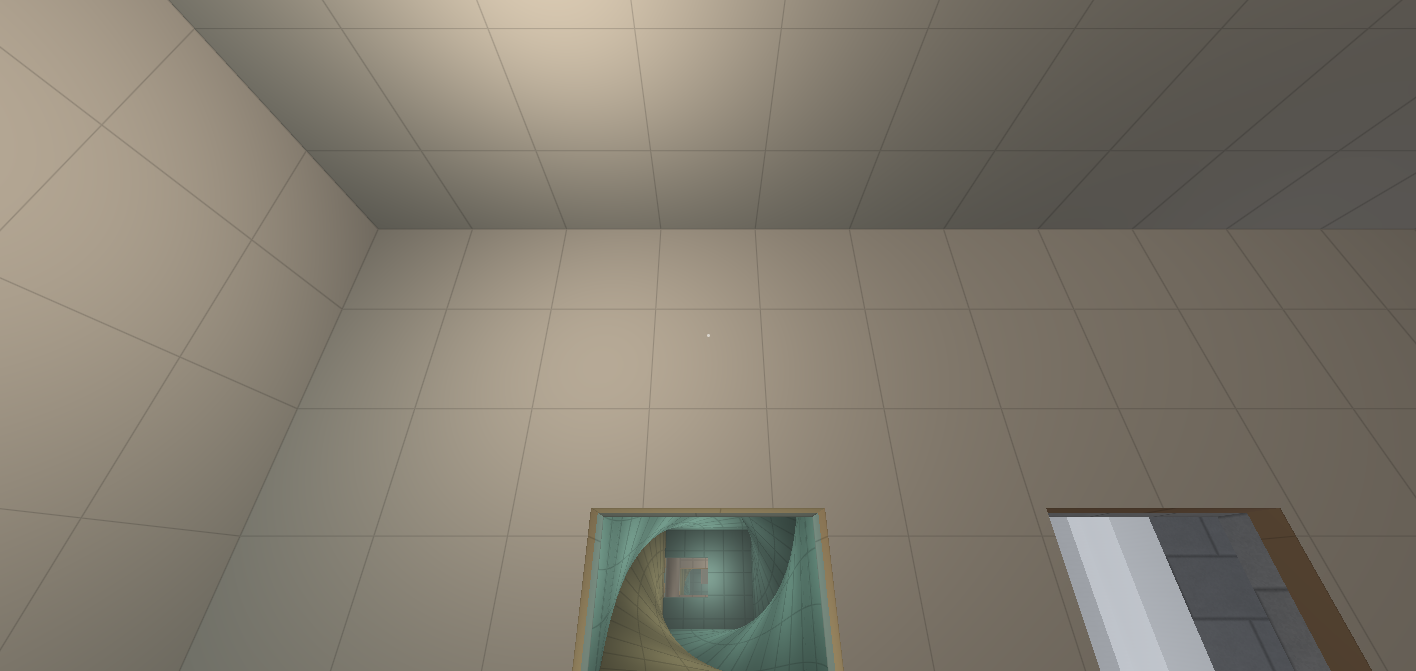
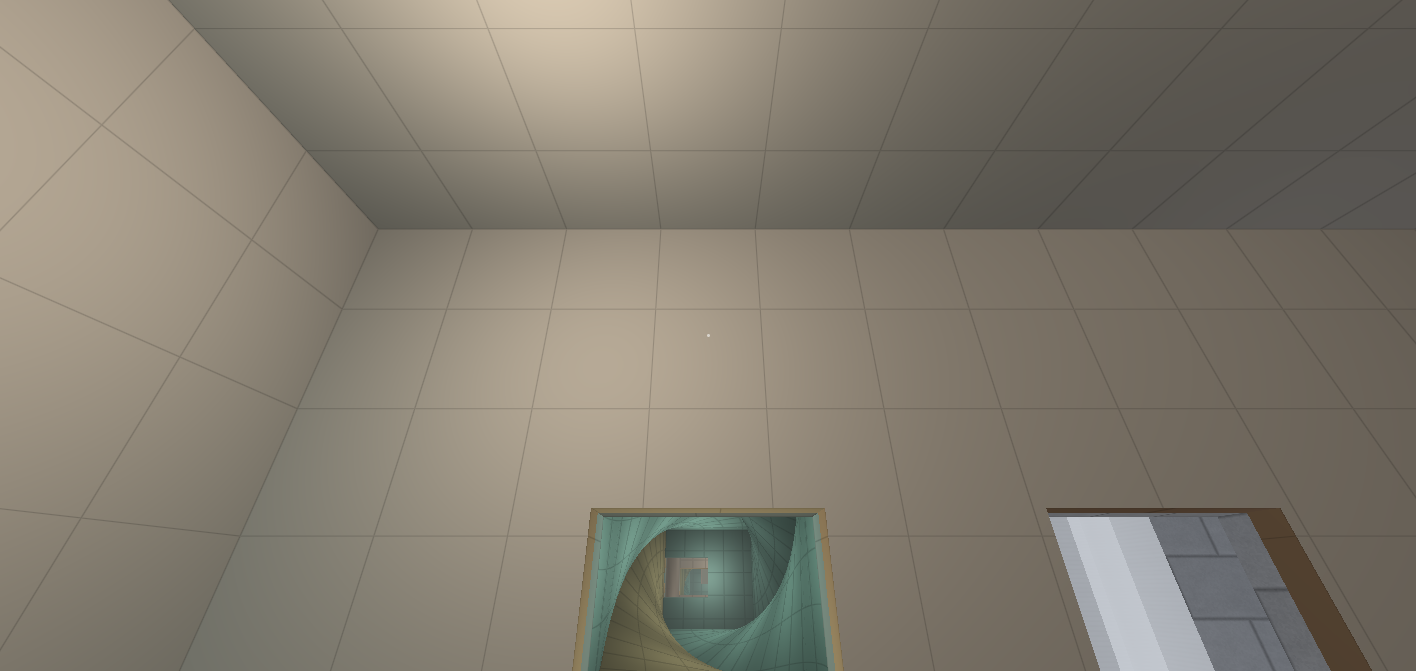
le dehors n'a plus de lampes, rien qu'un ciel
Elles étaient quatre, puissantes, vingt-six mètres au-dessus du pont,
pour détacher le proche du lointain. Deux torts, dont le second est
rédhibitoire.

L'une éclairait une masse de trop près : on voyait la tache, et une tache
de lumière sans luminaire est ce qui trahit le plus sûrement un décor.

Surtout, une lampe ne se répète pas avec la boucle. Le plancher de la
cellule est recollé à son plafond ; tout ce qui n'est pas invariant par
cette translation se signale au passage. En tombant, on sortait de leur
portée d'un coup et l'ombre gagnait tous les bâtiments à la fois, puis
le raccord nous ramenait dans la zone éclairée. Une lumière qui suit le
visiteur dans un vide immobile dit exactement le contraire de ce qu'on
veut faire croire : qu'il ne tombe pas.

Un ciel uniforme est invariant par n'importe quelle translation. Le
relief ne vient donc plus de l'éclairage mais de la peinture — refends
sombres, tabliers clairs, dessous noirs — et de la brume, qui éclaircit
avec la distance. C'est un parti graphique plutôt que photographique, et
c'est le bon dehors : un ciel couvert n'a pas de direction non plus.

Vérifié en comparant la même vue à quarante-cinq mètres au-dessus et
au-dessous du pont : mêmes valeurs, aucun front d'ombre.

Changed region(s): [[0.8079, 0.7452, 0.9322, 1.0]]

diff --git a/src/world/world.ts b/src/world/world.ts
@@ -2201,21 +2201,28 @@ export function buildWorld(): World {
   // cousu relie des bouches, pas des pièces — et ne transmet donc aucune lumière.
   const bridgeDoor = mouth(BRIDGE, 'pont.porte', BRIDGE_BOX, 'north', BRIDGE_X, BRIDGE_DECK)
   const bridgeLighting: CellLighting = {
-    // **Dehors, la lumière vient de partout.** Un ambiant fort et froid plutôt que des
-    // lampes : il n'y a pas de plafonnier au-dessus d'un vide, et une source ponctuelle à
-    // deux cents mètres ne modèle rien. Les quatre foyers ci-dessous ne servent qu'à
-    // détacher le proche du lointain, au niveau du pont.
-    // Sombre de près, blanc de loin. C'est l'inverse d'un intérieur, et c'est ce qui donne
-    // les silhouettes : le béton proche reste mat, et la brume l'efface en l'éclaircissant.
-    ambient: [0.13, 0.14, 0.16],
-    lights: [-24, 24].flatMap((dz) =>
-      [-26, 26].map((dx) => ({
-        position: { x: BRIDGE_X + dx, y: BRIDGE_DECK + 26, z: BRIDGE_BOX.min.z + 30 + dz },
-        colour: BRIDGE_TINT,
-        intensity: 60,
-        radius: 70,
-      })),
-    ),
+    // **Dehors, aucune lampe. Rien que du ciel.**
+    //
+    // Il y en avait quatre, puissantes, vingt-six mètres au-dessus du pont, pour détacher le
+    // proche du lointain. Elles avaient deux torts, et le second est rédhibitoire.
+    //
+    // L'une éclairait une masse de trop près : on voyait la tache, et une tache de lumière
+    // sans luminaire est ce qui trahit le plus sûrement un décor.
+    //
+    // Surtout, **une lampe ne se répète pas avec la boucle**. Le plancher de la cellule est
+    // recollé à son plafond ; tout ce qui n'est pas invariant par cette translation se
+    // signale au passage. En tombant, on sortait de leur portée d'un seul coup et l'ombre
+    // gagnait tous les bâtiments à la fois, puis le raccord nous ramenait dans la zone
+    // éclairée. Une lumière qui suit le visiteur dans un vide immobile : c'est exactement
+    // ce qui dit qu'il ne tombe pas vraiment.
+    //
+    // Un ciel uniforme, lui, est invariant par n'importe quelle translation. Le relief ne
+    // vient donc plus de l'éclairage mais de la **peinture** — refends sombres, tabliers
+    // clairs, dessous noirs — et de la brume, qui éclaircit avec la distance. C'est un parti
+    // graphique plutôt que photographique, et c'est le bon dehors : un ciel couvert n'a pas
+    // de direction non plus.
+    ambient: [0.32, 0.34, 0.38],
+    lights: [],
   }
   const loop = bridgeLoop()
   const [hubToBridge, bridgeToHub] = makePassages(
